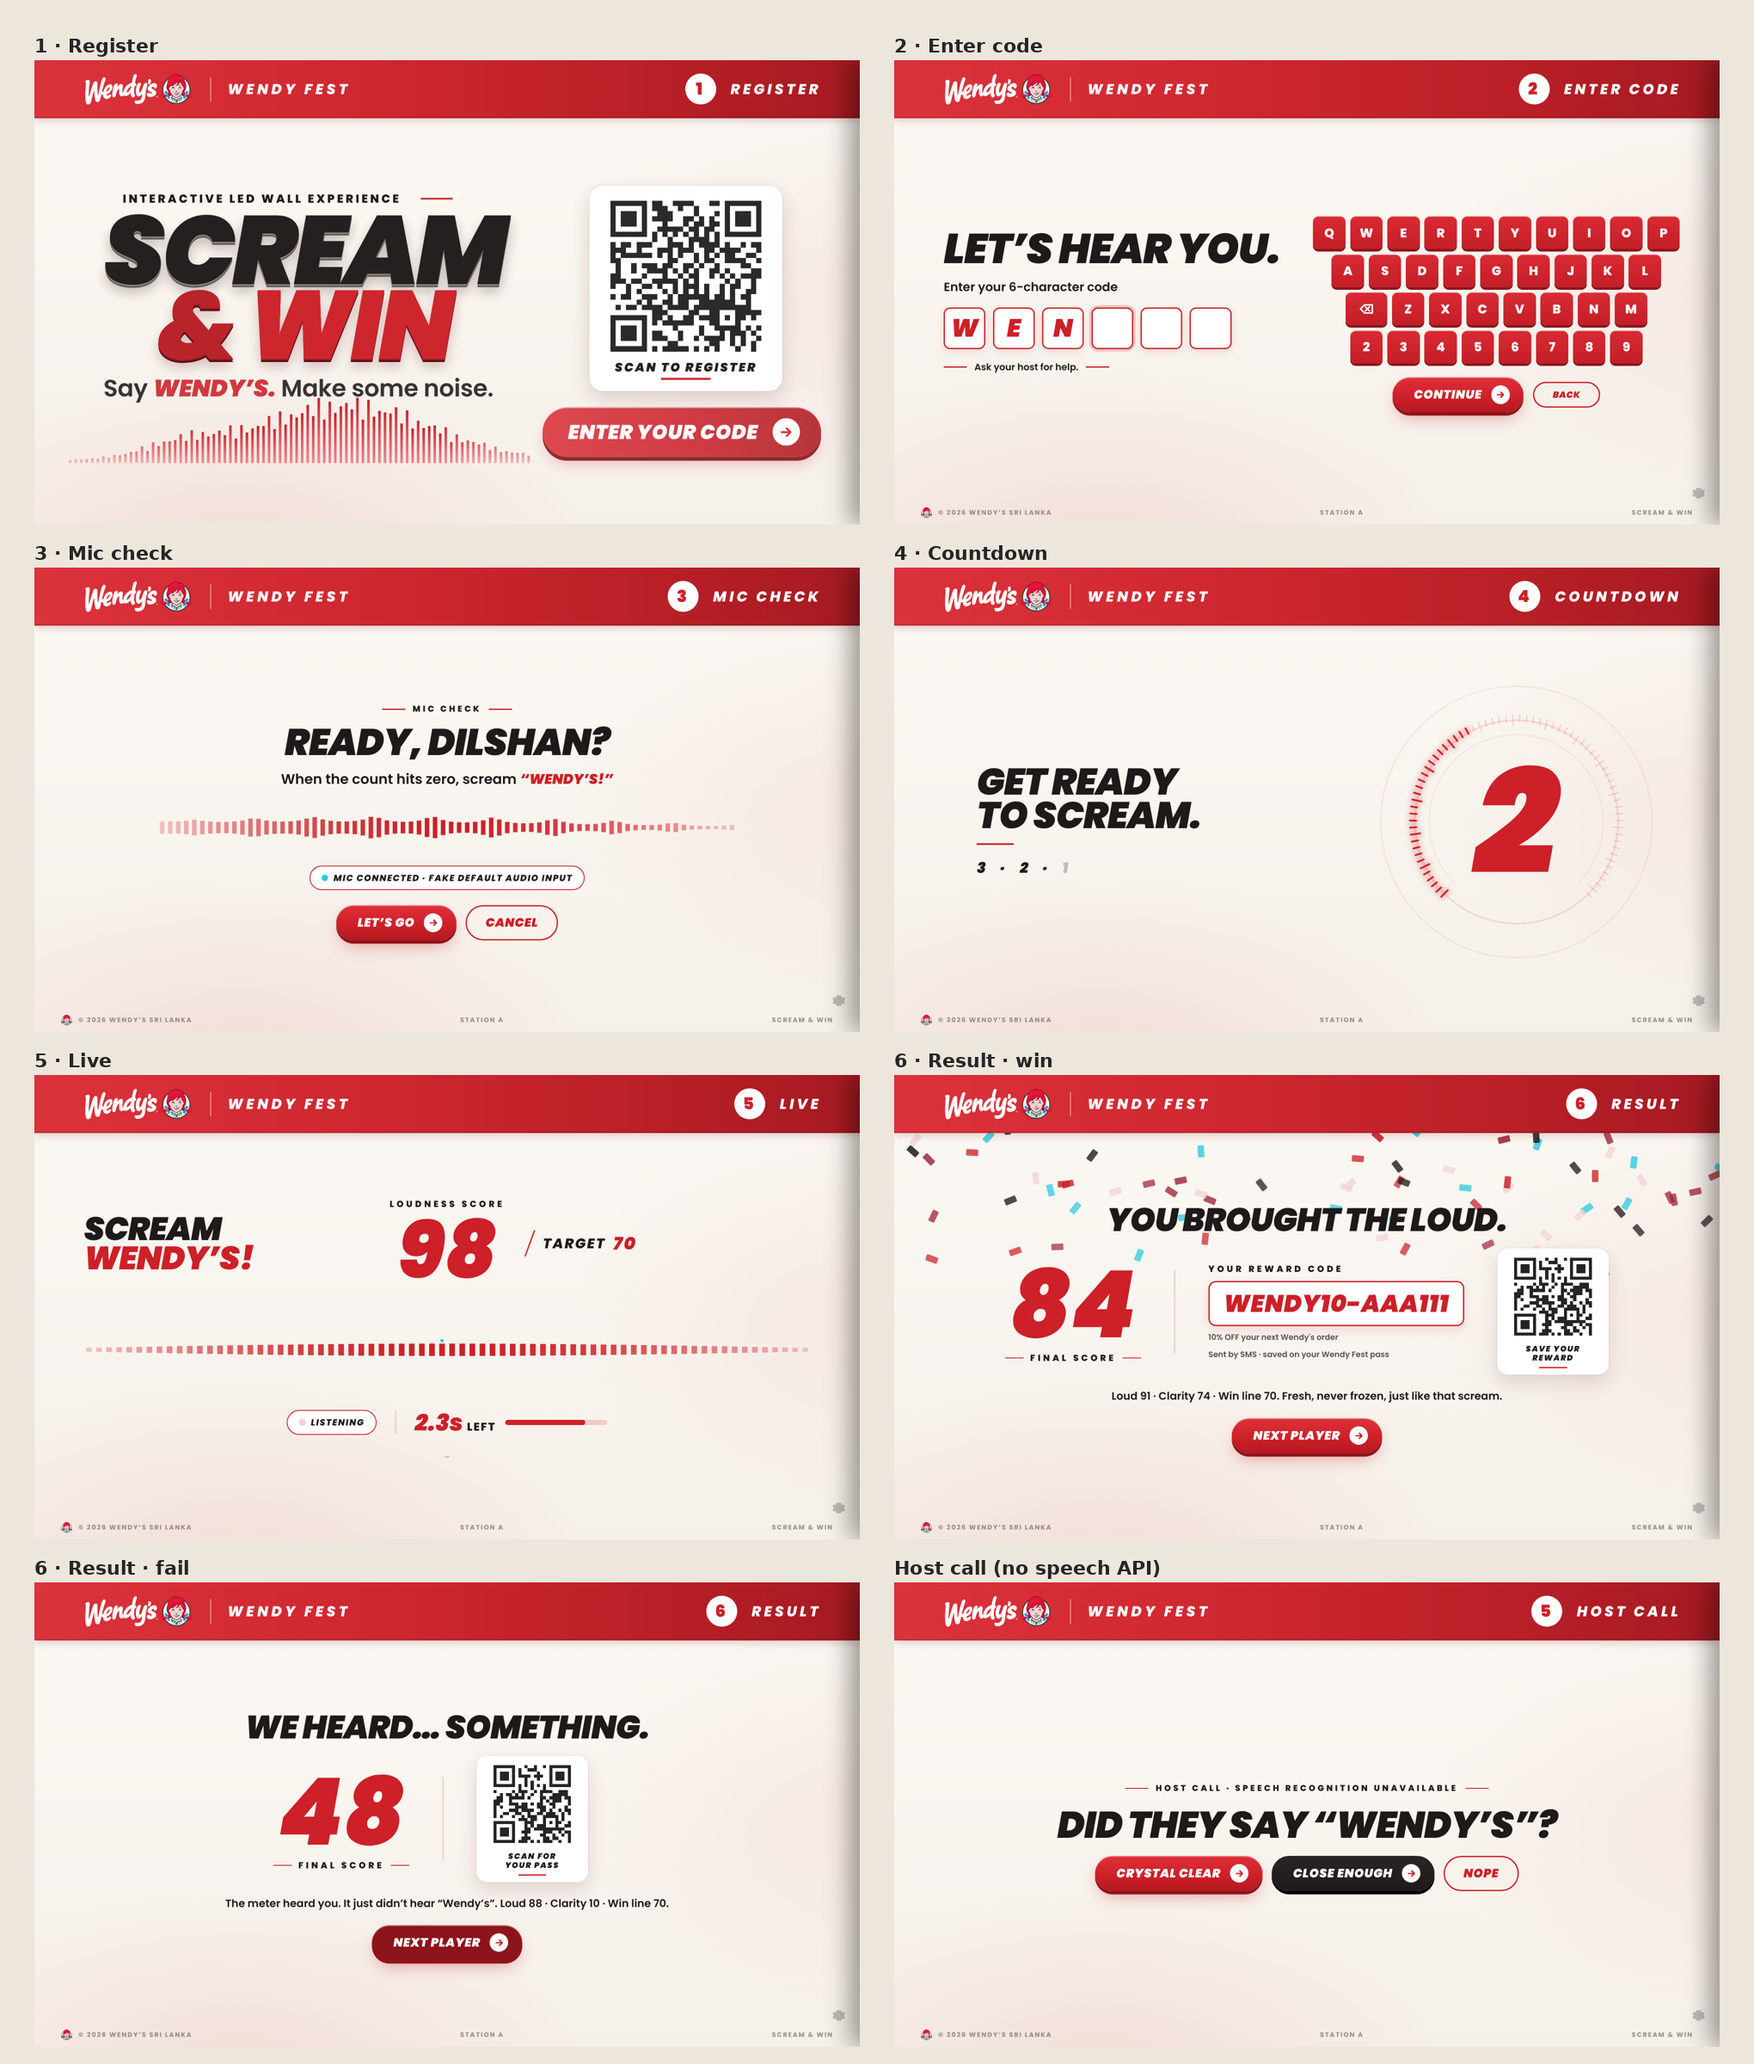
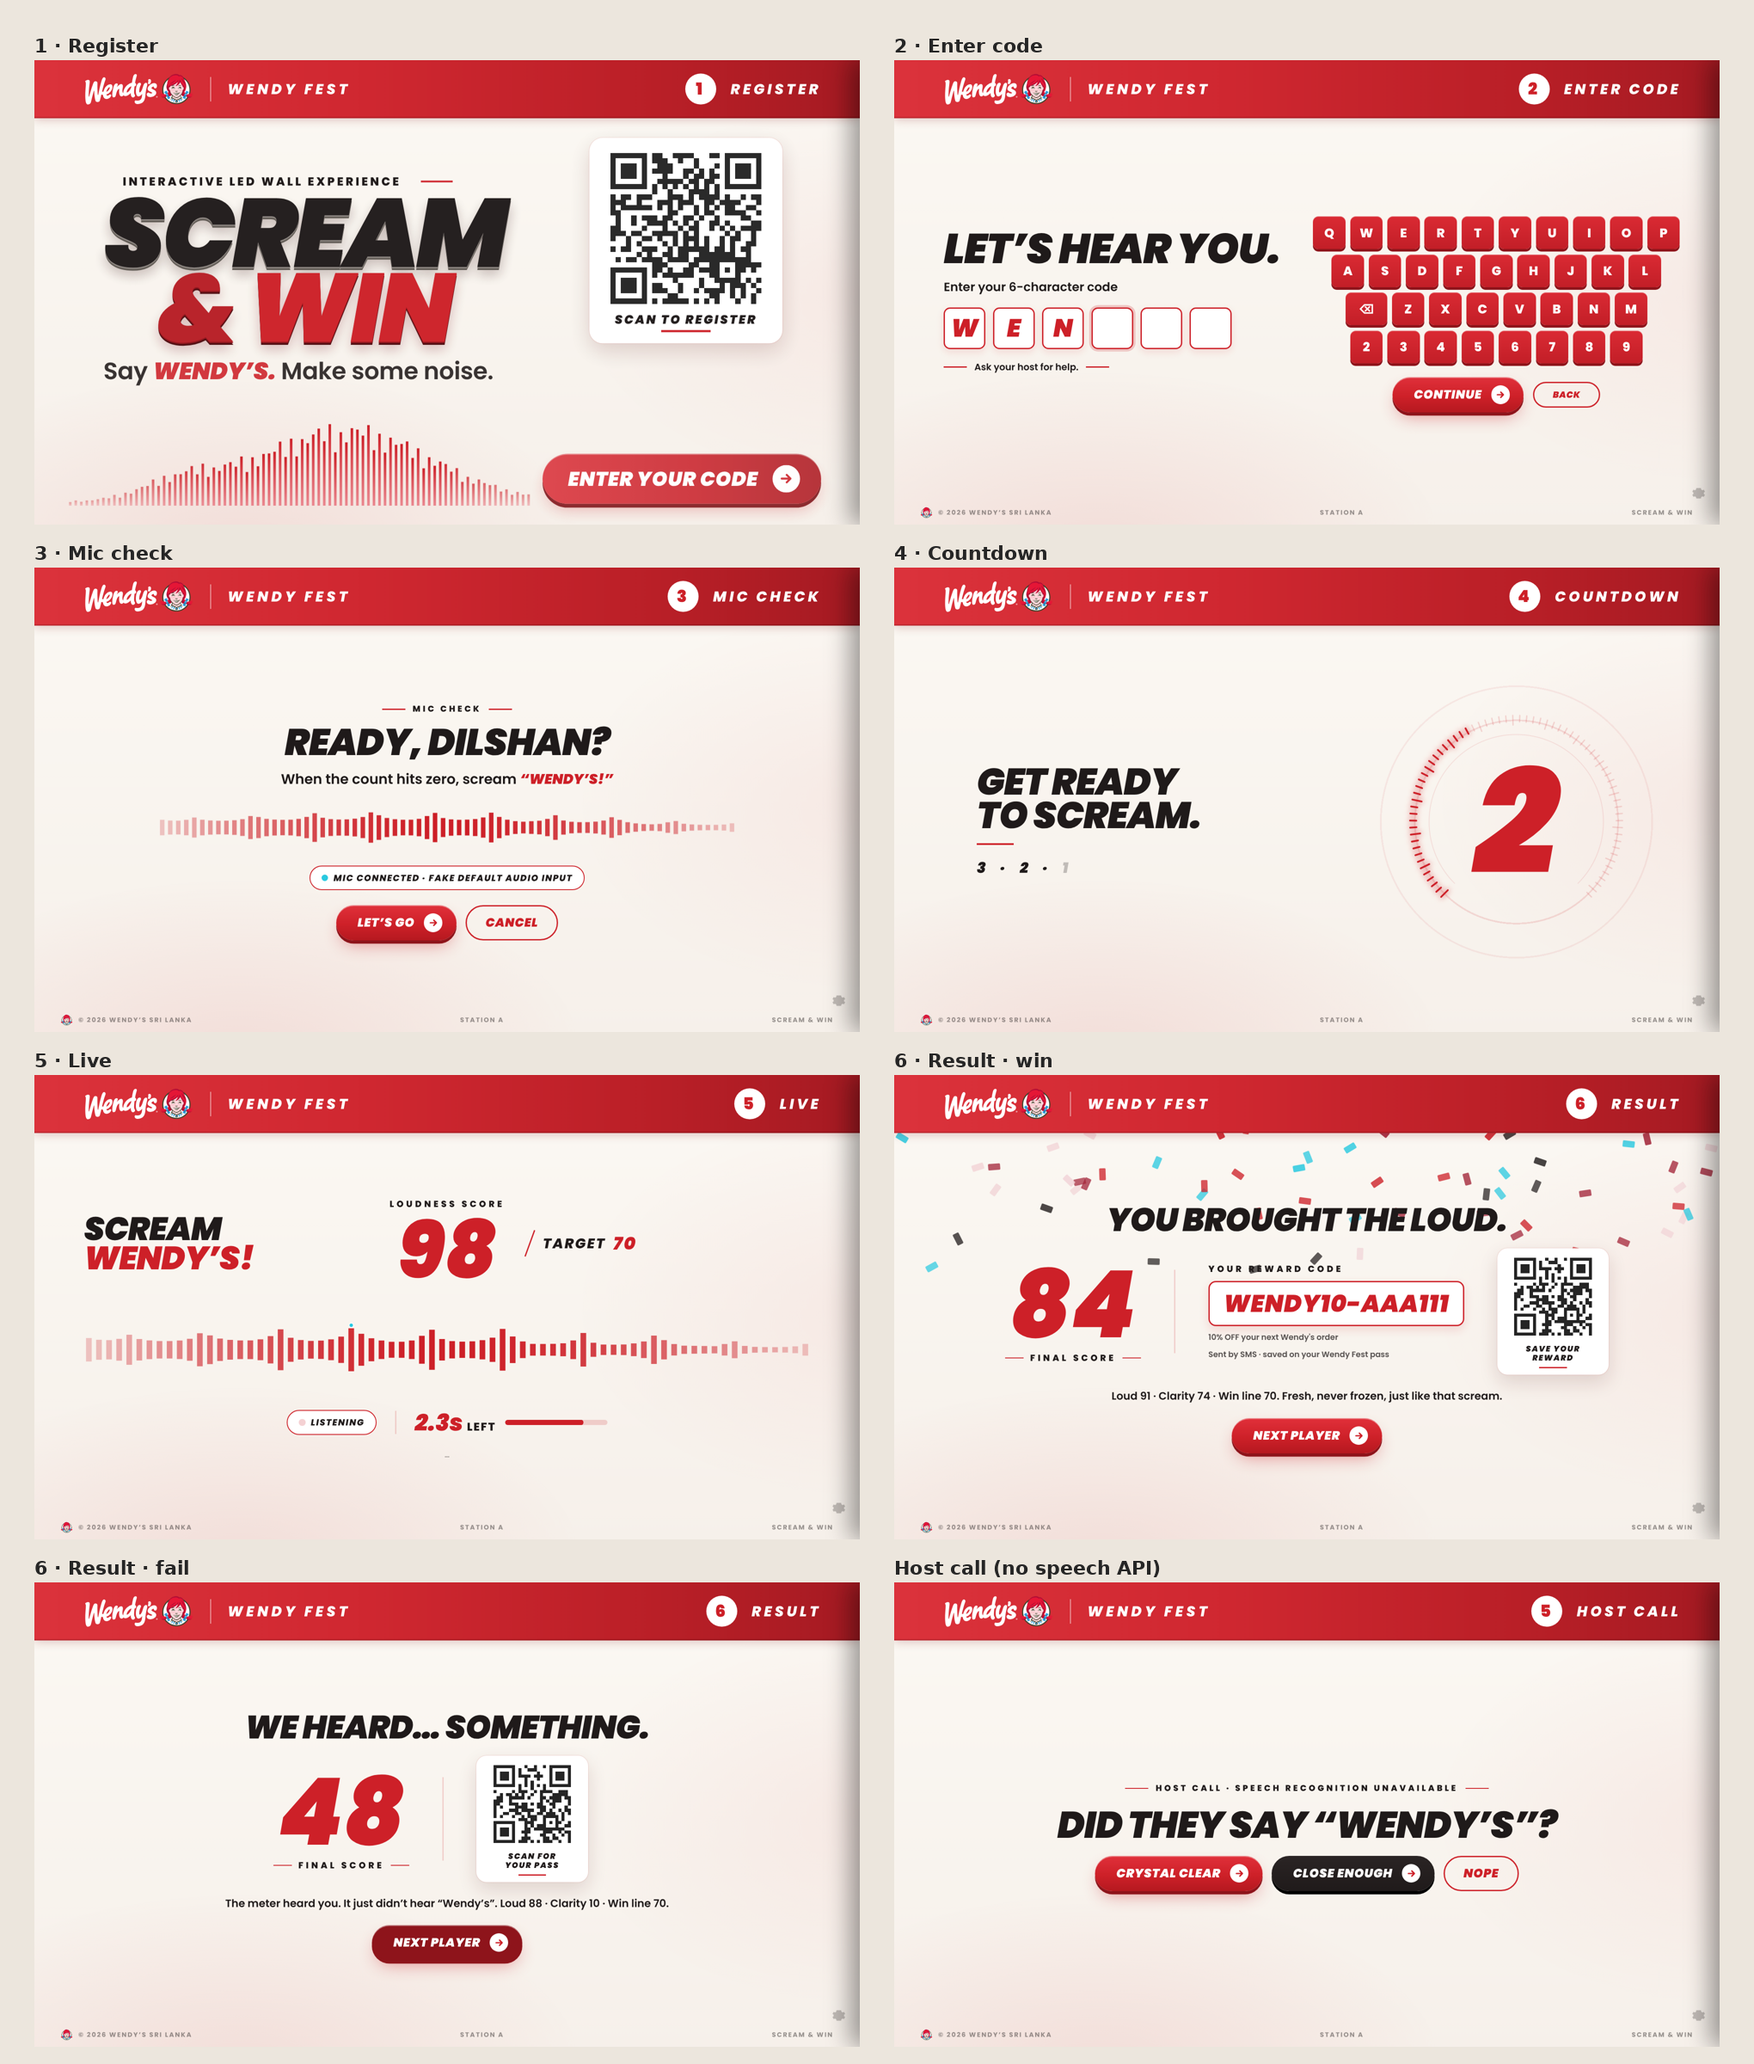
Studio Cream: Register elements anchored to the viewport edges
Claude-Session: https://claude.ai/code/session_015MHPvZ3kkn8jw5YatKY7r4

diff --git a/public/kiosk/scream-cream.html b/public/kiosk/scream-cream.html
@@ -52,19 +52,19 @@ body { margin:0; background:var(--cream); color:var(--ink); font-family:Poppins,
 .help i { display:none; }
 .vr { width:.25vmin; height:5vmin; background:var(--line); }
 /* idle · laid out on the reference banner grid (1495 x 668), uniform scale */
-.idle.on { display:block; padding:0; top:calc(105 * var(--u) + (100vh - 668 * var(--u)) / 2); height:calc(563 * var(--u)); bottom:auto; }
-.idle .left { position:absolute; left:calc(125 * var(--u)); top:calc(44 * var(--u)); display:grid; gap:0; justify-items:start; }
+.idle.on { display:block; padding:0; top:calc(105 * var(--u)); bottom:0; }
+.idle .left { position:absolute; left:calc(125 * var(--u)); top:calc(40 * var(--u)); bottom:calc(190 * var(--u)); display:grid; gap:0; justify-items:start; align-content:center; }
 .idle .eyebrow { justify-content:flex-start; font-size:calc(21 * var(--u)); letter-spacing:.2em; margin-left:calc(35 * var(--u)); color:#1F1A1A; } .idle .eyebrow::before { display:none; } .idle .eyebrow::after { width:calc(58 * var(--u)); height:calc(3 * var(--u)); margin-left:calc(22 * var(--u)); }
 .idle .h1 { font-size:calc(176 * var(--u)); line-height:.77; letter-spacing:-.035em; margin-top:calc(10 * var(--u)); }
 .idle .h1 .l1, .idle .h1 .l2 { display:block; } .idle .h1 .amp { color:#B81E26; margin-right:.12em; }
 .idle .h1 .l1 { color:#1F1A1A; text-shadow:0 calc(3 * var(--u)) 0 #8E8782, 0 calc(6 * var(--u)) 0 #5E5852, 0 calc(14 * var(--u)) calc(22 * var(--u)) rgba(60,30,30,.28); }
 .idle .h1 .amp, .idle .h1 .red { text-shadow:0 calc(3 * var(--u)) 0 #8E1219, 0 calc(6 * var(--u)) 0 #4E0A0E, 0 calc(14 * var(--u)) calc(22 * var(--u)) rgba(120,20,30,.25); }
 .idle .sub { font-size:calc(43 * var(--u)); font-weight:600; margin-top:calc(14 * var(--u)); letter-spacing:-.01em; }
-.idle canvas.wave { position:absolute; left:calc(60 * var(--u)); top:calc(420 * var(--u)); width:calc(840 * var(--u)); height:calc(118 * var(--u)); }
+.idle canvas.wave { position:absolute; left:calc(60 * var(--u)); bottom:calc(34 * var(--u)); width:calc(840 * var(--u)); height:calc(150 * var(--u)); }
 .idle .qrcard { position:absolute; left:calc(1005 * var(--u)); top:calc(35 * var(--u)); width:calc(350 * var(--u)); height:calc(372 * var(--u)); padding:calc(18 * var(--u)) calc(20 * var(--u)) calc(16 * var(--u)); border-radius:calc(24 * var(--u)); gap:calc(6 * var(--u)); align-content:start; box-shadow:0 calc(14 * var(--u)) calc(40 * var(--u)) rgba(80,20,20,.16), 0 0 0 .15vmin rgba(205,32,40,.08); }
 .idle .qrcard img { width:calc(292 * var(--u)); height:calc(292 * var(--u)); } .idle .qrcard b { font-size:calc(22 * var(--u)); letter-spacing:.14em; white-space:nowrap; } .idle .qrcard b::after { width:calc(90 * var(--u)); height:calc(4 * var(--u)); margin-top:calc(7 * var(--u)); }
 .stage:has(#s-idle.on) .foot, .stage:has(#s-idle.on) .gear { display:none; }
-.idle .cta-wrap { position:absolute; left:calc(920 * var(--u)); top:calc(435 * var(--u)); }
+.idle .cta-wrap { position:absolute; left:calc(920 * var(--u)); bottom:calc(40 * var(--u)); }
 .idle .btn { width:calc(505 * var(--u)); height:calc(90 * var(--u)); font-size:calc(36 * var(--u)); white-space:nowrap; padding:0 calc(20 * var(--u)) 0 calc(28 * var(--u)); gap:calc(26 * var(--u)); justify-content:center; letter-spacing:.02em; background:linear-gradient(90deg, #DB323B 0%, #CA242D 55%, #AE1C24 100%); box-shadow:0 calc(7 * var(--u)) 0 #7E1016, 0 calc(16 * var(--u)) calc(30 * var(--u)) -1vmin rgba(205,32,40,.4), inset 0 .2vmin 0 rgba(255,255,255,.35); }
 .idle .btn::after { width:calc(50 * var(--u)); height:calc(50 * var(--u)); }
 /* code */
